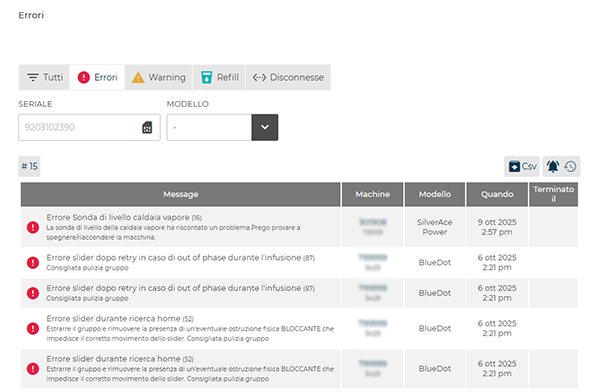
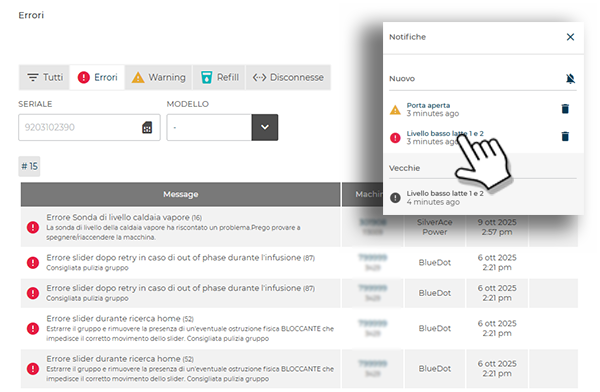
Capitolo terminato

diff --git a/docs/docs-it/notifications.md b/docs/docs-it/notifications.md
@@ -31,7 +31,5 @@ Cliccando la campanella si apre il pannello **Notifiche**, suddiviso in **Nuovo*
     <kbd>![Errori da notifica](_images/notifiche-04.png)</kbd>
 
 
-* **Icona cestino**: consente di eliminare la notifica dall’elenco delle **Nuove**. La notifica rimarrà visibile nella sezione **Vecchie** per 10 giorni, dopodiché verrà rimossa automaticamente.
-* **Icona campanella barrata**: permette di disattivare temporaneamente gli avvisi sonori e visivi. Tutte le notifiche presenti nella sezione **Nuove** vengono spostate automaticamente in **Vecchie**.
-
-> Nota: le notifiche vengono recapitate anche via **e-mail** al supporto di competenza; ogni errore genera un messaggio di posta con i dettagli dell’evento.
+* **Icona cestino**: consente di spostare le notifiche dall’elenco **Nuove** all'elenco **Vecchie**. La notifica rimarrà visibile per 7 giorni, dopodiché verrà rimossa automaticamente.
+* **Icona campanella barrata**: permette di spostare automaticamente tutte le notifiche presenti nella sezione **Nuove** in **Vecchie**.

diff --git a/docs/docs-it/tickets.md b/docs/docs-it/tickets.md
@@ -20,12 +20,11 @@ Per aprire una nuova segnalazione, selezionare **Nuovo ticket** in alto a destra
 Si apre la pagina di creazione, nella quale è possibile scegliere una delle due modalità di contatto:
 
 
-### **Richiesta di supporto** (Chat)
+### **Richiesta di supporto**
 
 <kbd>![Richiesta Supporto](_images/tickets-3.png)</kbd>
 
-Questa modalità utilizza la **chat integrata** come canale di comunicazione preferenziale.
-Compilare i campi seguenti:
+Questa modalità utilizza il **CARIcare** come canale di comunicazione.
 
 * **Tipologia** – selezionare la categoria del problema dal menù a discesa;
 * **Macchina** – scegliere la macchina oggetto della richiesta (si aprirà un menu a tendina con tutte le macchine registrate);
